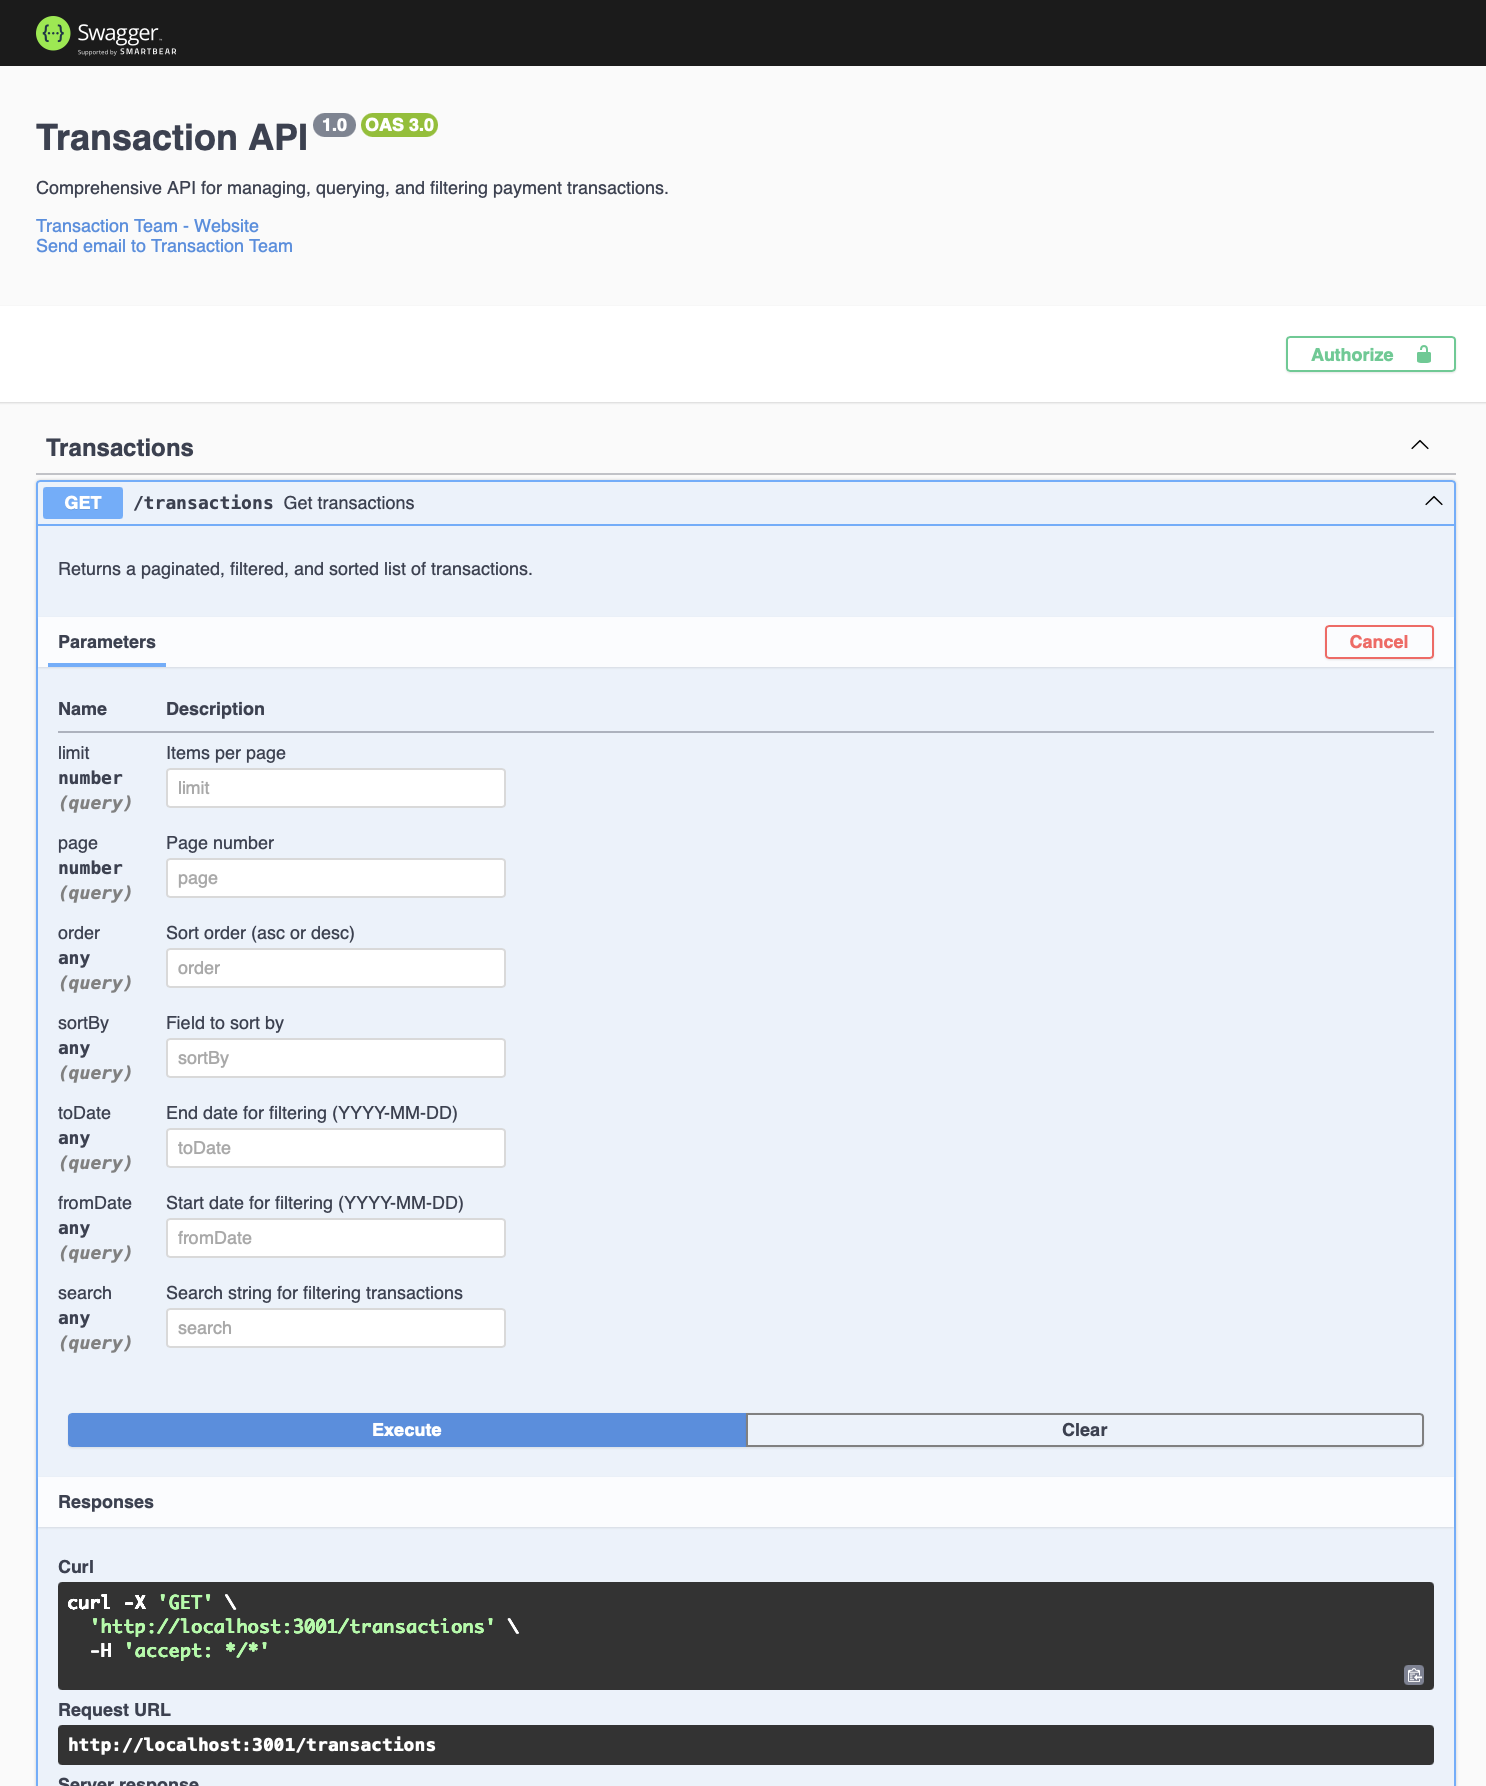
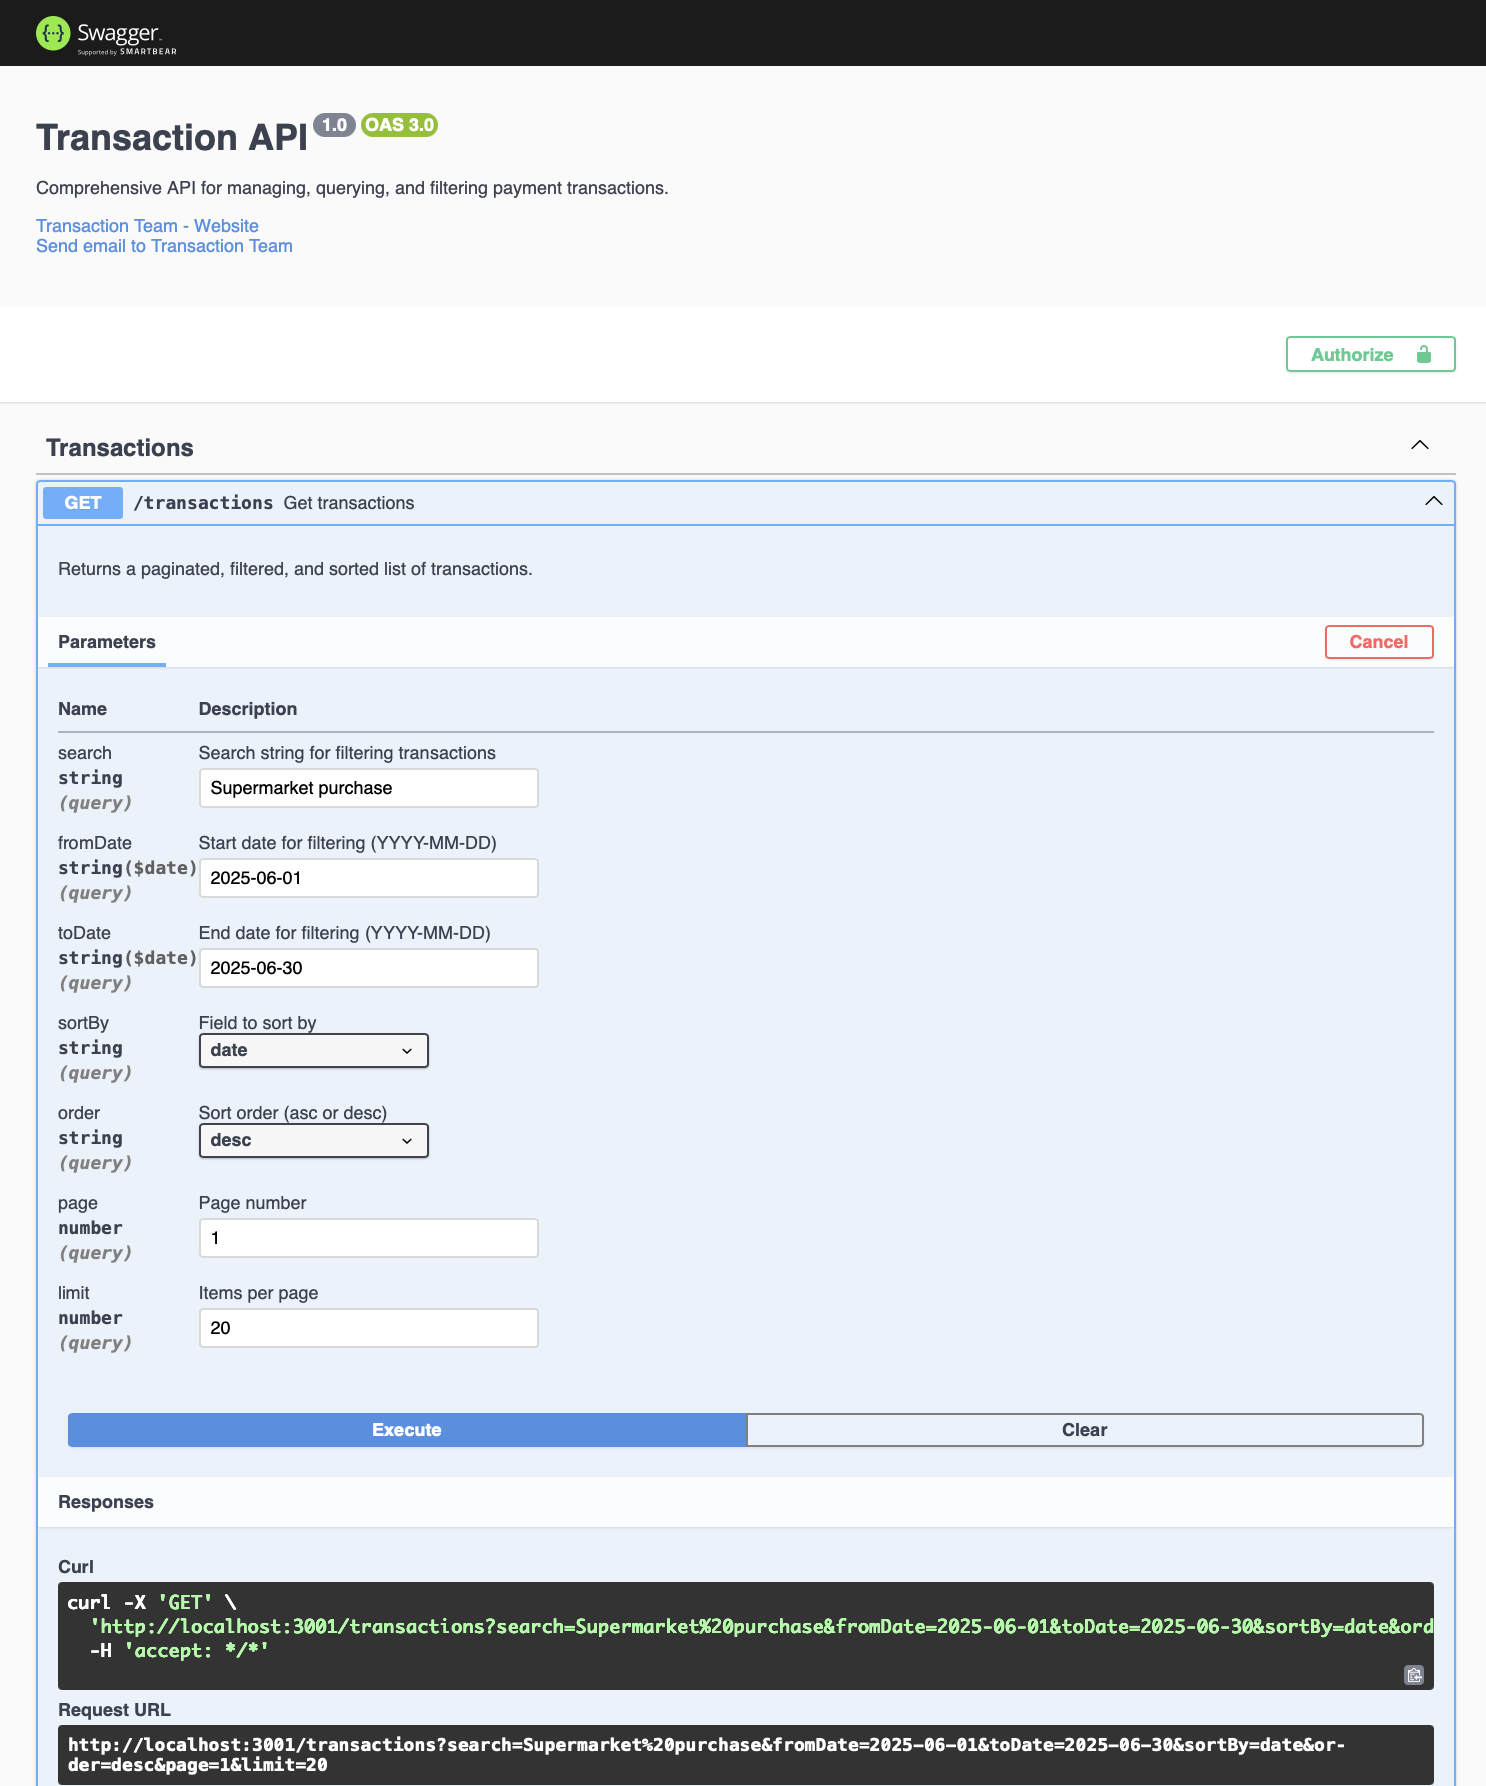
refactor: Improve TransactionsQueryProps documentation

diff --git a/transaction-api/src/transactions/types/transactions-query-props.ts b/transaction-api/src/transactions/types/transactions-query-props.ts
@@ -1,9 +1,84 @@
-export interface TransactionsQueryProps {
+import { ApiPropertyOptional } from '@nestjs/swagger';
+import {
+	IsOptional,
+	IsString,
+	IsNumber,
+	IsIn,
+	IsDateString,
+} from 'class-validator';
+import { Type } from 'class-transformer';
+import { SORT_ORDER } from '../../constants/sort';
+import { TRANSACTION_SORT_FIELDS } from '../../constants/transactions';
+
+export class TransactionsQueryProps {
+	@ApiPropertyOptional({
+		description:
+			'Optional search term to filter transactions by any field. Allows searching across multiple transaction attributes, such as description, amount, or currency, for flexible querying.',
+		type: String,
+		example: 'Supermarket purchase',
+	})
+	@IsOptional()
+	@IsString()
 	search?: string;
+
+	@ApiPropertyOptional({
+		description:
+			'Start date for filtering transactions, in ISO 8601 format (UTC). Only transactions on or after this date will be included.',
+		type: String,
+		format: 'date',
+		example: '2025-06-01',
+	})
+	@IsOptional()
+	@IsDateString()
 	fromDate?: string;
+
+	@ApiPropertyOptional({
+		description:
+			'End date for filtering transactions, in ISO 8601 format (UTC). Only transactions on or before this date will be included.',
+		type: String,
+		format: 'date',
+		example: '2025-06-30',
+	})
+	@IsOptional()
+	@IsDateString()
 	toDate?: string;
+
+	@ApiPropertyOptional({
+		description:
+			'Field by which to sort the results (e.g., date, amount, description, currency).',
+		enum: Object.values(TRANSACTION_SORT_FIELDS),
+		example: TRANSACTION_SORT_FIELDS.DATE,
+	})
+	@IsOptional()
+	@IsIn(Object.values(TRANSACTION_SORT_FIELDS))
 	sortBy?: string;
+
+	@ApiPropertyOptional({
+		description: `Sort order for the results: "${SORT_ORDER.ASC}" for ascending or "${SORT_ORDER.DESC}" for descending.`,
+		enum: [SORT_ORDER.ASC, SORT_ORDER.DESC],
+		example: SORT_ORDER.DESC,
+	})
+	@IsOptional()
+	@IsIn([SORT_ORDER.ASC, SORT_ORDER.DESC])
 	order?: string;
-	page?: string | number;
-	limit?: string | number;
+
+	@ApiPropertyOptional({
+		description: 'Page number for paginated results (starts at 1).',
+		type: Number,
+		example: 1,
+	})
+	@IsOptional()
+	@Type(() => Number)
+	@IsNumber()
+	page?: number;
+
+	@ApiPropertyOptional({
+		description: 'Number of items to return per page.',
+		type: Number,
+		example: 20,
+	})
+	@IsOptional()
+	@Type(() => Number)
+	@IsNumber()
+	limit?: number;
 }

diff --git a/transaction-api/src/constants/transactions.ts b/transaction-api/src/constants/transactions.ts
@@ -1,0 +1,7 @@
+export enum TRANSACTION_SORT_FIELDS {
+  UUID = 'uuid',
+	DATE = 'date',
+	AMOUNT = 'amount',
+	DESCRIPTION = 'description',
+	CURRENCY = 'currency',
+}
